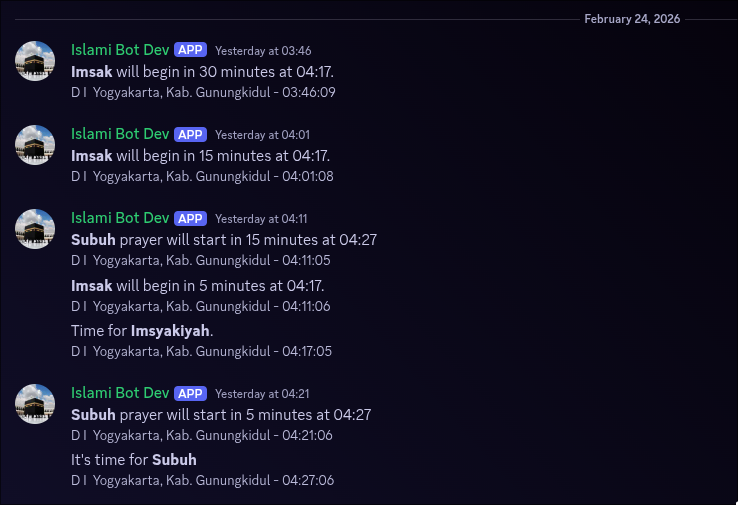
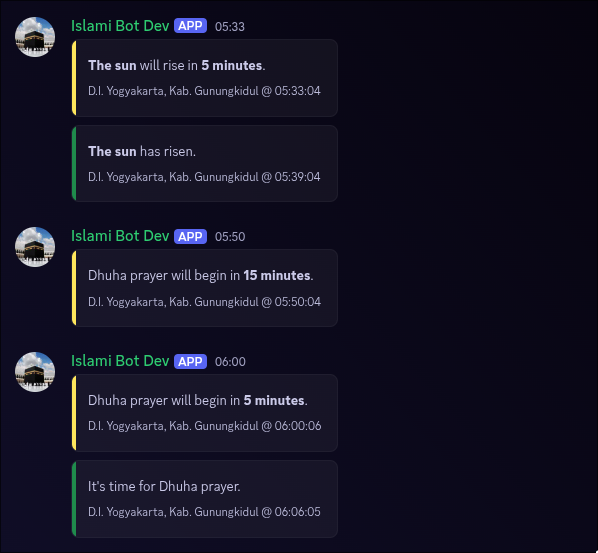
docs(README): Revamp system overview and usage
- docs(readme): Clarify development branch caution message
- docs(readme): Update showcase image with descriptive caption
- docs(readme): Add new packages section detailing monorepo structure
- docs(readme): Introduce 'How it works' section with system flow
- docs(readme): Update usage examples for Redis event subscription
- docs(assets): Update example image for showcase section

diff --git a/README.md b/README.md
@@ -8,32 +8,54 @@
 </div>
 
 > [!CAUTION]
-> This `dev` branch is having different system from `main` branch, and it's still in development. do not.
+> This `dev` branch is having different system from `main` branch, and it's still in development. do not use it yet. ok?
 
 ## Showcase
-> [!NOTE]
-> This is an example of how the prayer reminder system can be used to send prayer time notifications to a Discord channel. The system will automatically fetch the prayer times for the specified location and send reminders at the appropriate times.
+This is an example of how the prayer reminder system can be used to send prayer time notifications to a Discord channel.
 
-<img alt="Showcase" src="/assets/images/example.png"></img>
+<div align=center>
+    <img alt="Discord bot sending a prayer notification in a Discord channel, displaying the prayer name, time, and location information with a clean interface" src="/assets/images/example.png"></img>
+    <p style="font-size: 12px">Discord bot sending prayer notification in Discord channel</p>
+</div>
+
+## Packages
+This project is a monorepo that consists of several packages, each with its own purpose and functionality. Here are the main packages in this project:
+
+1. <b>`sholatku-reminder-core`</b>
+<b>This package contains the core logic and functionality of the prayer reminder system.</b> It includes the main scheduler that calculates prayer times and triggers events based on the schedule. It also defines the data structures and interfaces used throughout the system.
+2. <b>`sholatku-reminder-shared`</b>
+<b>This package contains shared utilities and components that are used across different packages in the monorepo.</b> It includes common functions, types, and configurations that can be reused by other packages to ensure consistency and reduce code duplication. And especially the Redis client that is used for communication between the core and the providers.
+3. <b>`sholatku-reminder-discord`</b> [Provider]
+<b>This package is a provider that integrates the prayer reminder system with Discord. </b>It listens for prayer events from the core package and sends notifications to a specified Discord channel using a bot.
+4. <b>`sholatku-reminder-whatsapp`</b> [Provider]
+<b>Same as discord, a provider that integrates the prayer reminder system with WhatsApp.</b> It listens for prayer events from the core package and sends notifications to a specified WhatsApp number using a bot.
+
+## How it works
+
+<div align=center>
+    <img alt="Showcase" src="/assets/images/sholatku-flow.png"></img>
+    <p style="font-size: 12px">Image of Flowchart showing how the flow goes</p>
+</div>
+
+<b>Redis message broker</b> is used for distributing the prayer event to multiple provider at the same time.
+Currently, we only have <b>Discord</b> and <b>WhatsApp</b> but we will add more provider in the future, such as Telegram, Slack, and more. Or you can contribute to this project by adding your own provider.
 
 ## Usage
 There are <b>4 event available to use</b>, that includes `PrayerTime`, `PrayerIn5m`, `PrayerIn15m`, and `PrayerIn30m`. Each event will trigger at the specified time before the prayer time, allowing you to set up reminders or perform any necessary actions.
+
+Here an example of <b>how a provider can subscribe to the prayer event</b> using the Redis message broker:
 ```ts
-import sholatkuClient from "./Client.js";
+import { redisSubscriber } from "sholatku-reminder-shared/redis/RedisClient.js"
 
-sholatkuClient.on(PrayerEvent.PrayerTime, async (payload) => {
-    // Triggered when the it's time for prayer
-});
+redisSubscriber.on("message", async (channel, rawMessage) => {
+    // Construct back the payload
+    const raw = JSON.parse(rawMessage) as SerializedPrayerEventPayload
+    const payload: PrayerEventPayload = {
+        ...raw,
+        event: { ...raw.event, time: moment(raw.event.time) }
+    }
 
-sholatkuClient.on(PrayerEvent.PrayerIn5m, async (payload) => {
-    // Triggered 5 minutes before the prayer time
-});
-
-sholatkuClient.on(PrayerEvent.PrayerIn15m, async (payload) => {
-    // Triggered 15 minutes before the prayer time
-});
-
-sholatkuClient.on(PrayerEvent.PrayerIn30m, async (payload) => {
-    // Triggered 30 minutes before the prayer time
-});
+    // Ready to use
+    const { event, location, subscription } = payload
+})
 ```
